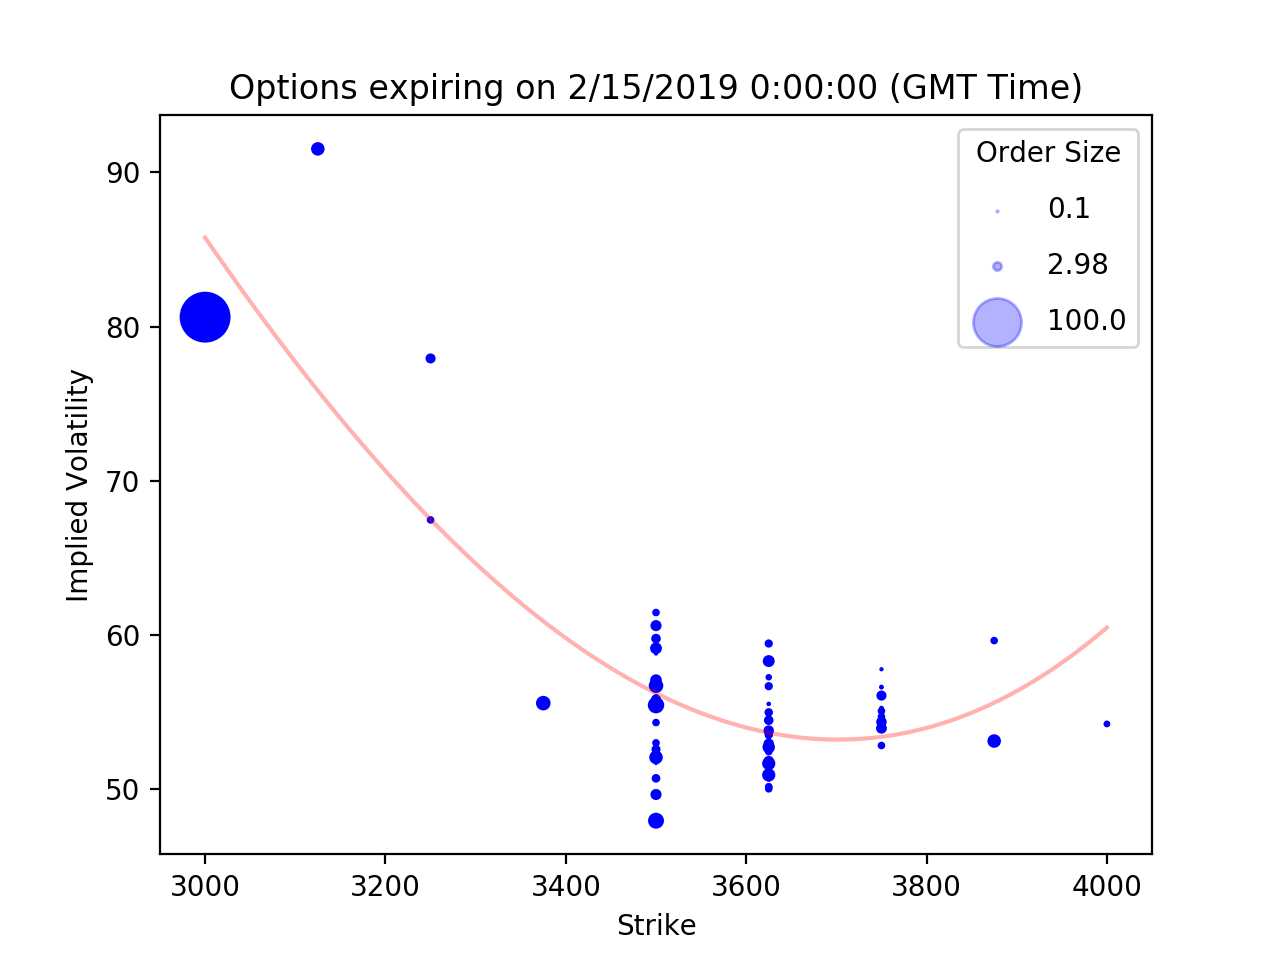
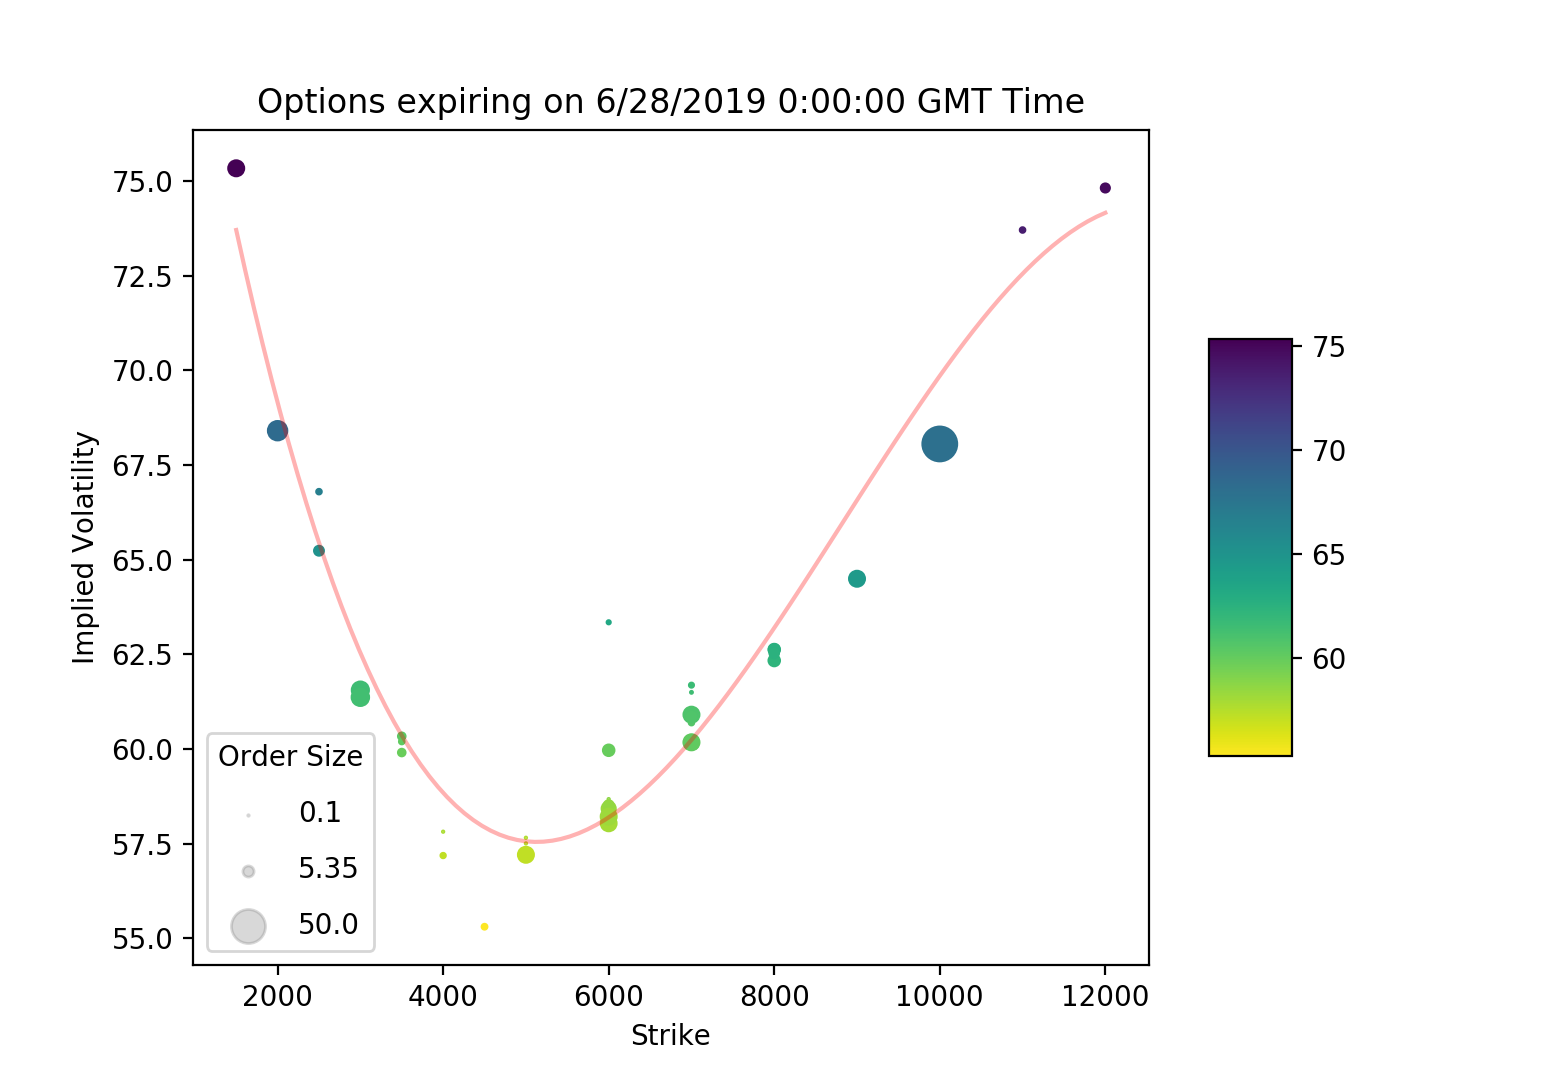
optimized scatterplot

diff --git a/Volatility Surface Class.py b/Volatility Surface Class.py
@@ -127,10 +127,14 @@ class vol_surface(object):
 
         x_grids, y_grids, z_grids = make_surf(x, y, z)
 
+
         if plot_type == "scatter_2D":
             # Plot axes
+            fig = plt.figure()
             ax = plt.axes()
-            plt.scatter(x=x, y=z, s=area, color='blue')
+            scat = plt.scatter(x=x, y=z, s=area, c=z)
+            plt.set_cmap('viridis_r')
+            fig.colorbar(scat, shrink=0.5, aspect=5)
             # Add fitted line for the scatter plot
             fitted_data = np.polyfit(x, z, 3)
             p = np.poly1d(fitted_data)
@@ -142,20 +146,9 @@ class vol_surface(object):
             plt.ylabel('Implied Volatility')
             # Set size legend
             for area in [area.min(), area.mean(), area.max()]:
-                plt.scatter([], [], alpha=0.3, s=area, color='blue', label=str(round(area / 3, 2)))
-            handles, labels = ax.get_legend_handles_labels()
-            plt.legend(handles[-3:], labels[-3:], scatterpoints=1, labelspacing=1, title='Order Size')
-
-        if plot_type == "scatter_3D":
-            ax = plt.axes(projection='3d')
-            ax.scatter3D(x, y, z, s=area, c=z, cmap='viridis')
-            ax.set_xlabel('Strike Price')
-            ax.set_ylabel('Time Remain to Expiration')
-            ax.set_zlabel('Implied Volatility')
-            for area in [area.min(), area.mean(), area.max()]:
-                ax.scatter3D([], [], [], alpha=0.3, s=area, label=round(area / 3, 2))
-            handles, labels = ax.get_legend_handles_labels()
-            plt.legend(handles[-3:], labels[-3:], scatterpoints=1, labelspacing=1, title='Order Size')
+                plt.scatter([], [], alpha=0.3, s=area, color='grey', label=str(round(area / 3, 2)))
+                handles, labels = ax.get_legend_handles_labels()
+                plt.legend(handles[-3:], labels[-3:], scatterpoints=1, labelspacing=1, title='Order Size')
 
         if plot_type == "surface_3D":
             fig = plt.figure()
@@ -225,4 +218,3 @@ if __name__ == '__main__':
         test = vol_surface(url, traceback=12, plot_type="scatter_2D", save_local=True)
 
         test.start()
-

diff --git a/README.md b/README.md
@@ -8,6 +8,9 @@ This tool can connect to Deribit's public endpoint (registration required) and g
 git clone https://github.com/pengjin2/Derbit-Volatility-Visulization.git
 ```
 
+## Traceback
+Data to be included in the plot and data stream.
+
 ## Save data to local
 
 Data can be saved to local directory. When you set `save_local` = `True`, the data used to draw the session graphs will be updated automatically.
